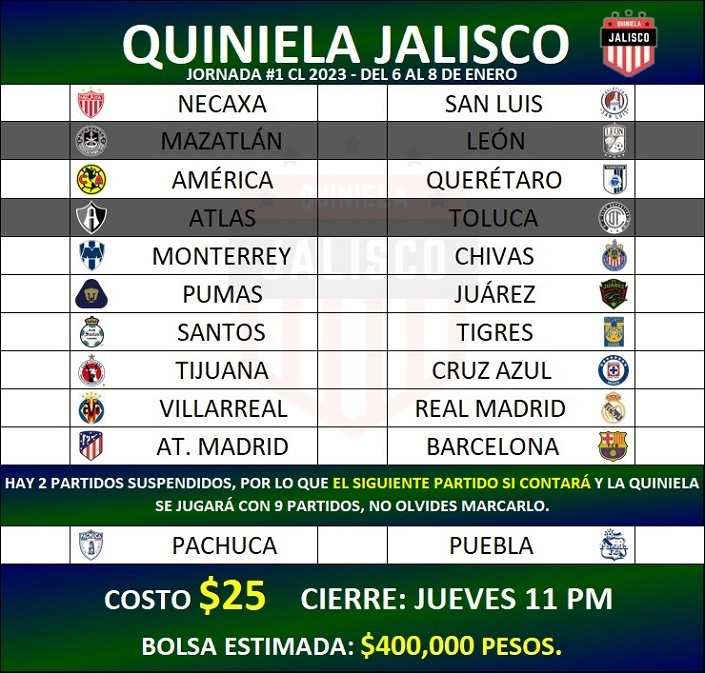
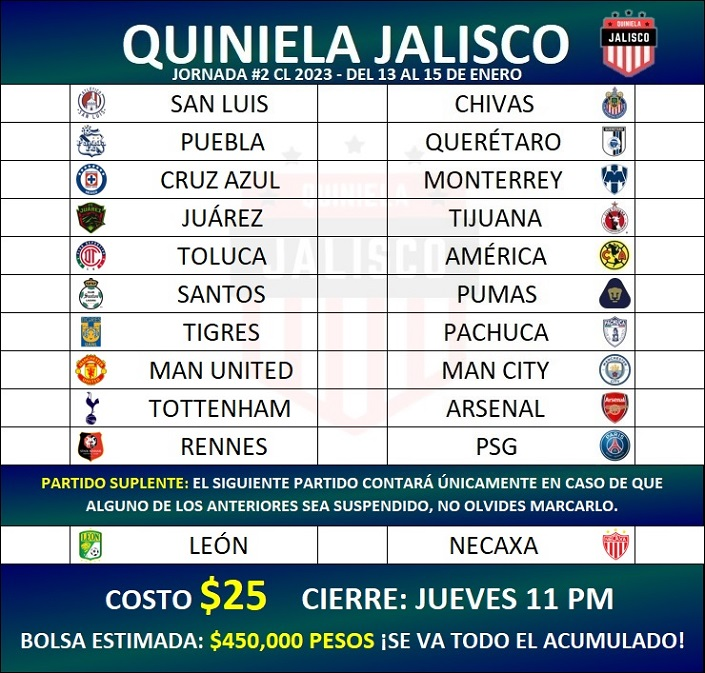
Jornada 2 C23

diff --git a/11/styles11.css b/11/styles11.css
@@ -94,8 +94,8 @@ body{
     margin-top: 9%;
     border-top: solid 1px black;
     border-radius: 0 0 14px 14px;
-    background: -webkit-linear-gradient(0.49turn, rgb(2,98,0) -40% ,rgb(0,6,94) 100%);
-    background: linear-gradient(0.49turn, rgb(2,98,0) -40% ,rgb(0,6,94) 100%);
+    background: -webkit-linear-gradient(0.5turn, rgb(0,77,80) -3% ,rgb(0,6,94) 100%);
+    background: linear-gradient(0.5turn, rgb(0,77,80) -3% ,rgb(0,6,94) 100%);
 }
 
 .text-lg{
@@ -285,24 +285,21 @@ h6{
 }
 
 #bolsatxt:before{
-    content:'Hay 2 partidos suspendidos, por lo \A que ';
+    content:'Bolsa estimada: ';
     white-swhite;
     white-space:pre;
-    font-style: italic;
     text-shadow: 1px 1px 4px black;
 }
 
 #cantidad:before{
-    content:'Pachuca vs Puebla ';
+    content:'$450,000 pesos';
     color: yellow;
-    font-style: italic;
     white-space:pre;
 }
 
 #sub1:before{
-    content:'si contará.';
+    content:'\A ¡Se reparte todo el acumulado!';
     color: white;
-    font-style: italic;
     white-space:pre;
 }
 
@@ -313,14 +310,14 @@ h6{
 }
 
 #sub3:before{
-    content:'\A Bolsa estimada: ';
+    content:'';
     color: white;
     white-space:pre;
     vertical-align: sub;
 }
 
 #sub4:before{
-    content:'$400,000 pesos';
+    content:'';
     color: yellow;
     white-space:pre;
     vertical-align: sub;
@@ -341,7 +338,7 @@ h6{
 #touchIconDiv{
     transform: rotate(315deg);
     position: absolute;
-    top: 205px;
+    top: 170px;
     height: 0px;
     pointer-events:none;
 }

diff --git a/index.html b/index.html
@@ -19,7 +19,7 @@
     <script src="11/main11.js"></script>
     <script src="https://quinielajal.github.io/Registro-1/var.js"></script>
     <script src="var.js"></script>
-    <script src='./snow.js' defer></script>
+    <!--<script src='./snow.js' defer></script>-->
 </head>
 
 <body>
@@ -33,7 +33,7 @@
         </span>
     </p>
     <!-- Quiniela -->
-    <div id="snow"></div>
+    <!--<div id="snow"></div>-->
     <div class="quiniela" id="quiniela">
         <div class="aux"><h3 style="padding: 5px 7px" onclick="clean()"><ion-icon name="close-outline"></ion-icon></h3></div>
         <div class="partido">
@@ -185,9 +185,9 @@
         <table id="lista">
         </table>
     </div>
-<div class="d-flex justify-content-end" style="filter:opacity(0.3);">
+<!--<div class="d-flex justify-content-end" style="filter:opacity(0.3);">
     <ion-icon style="filter:invert(1); margin-top:4px;" name="snow"></ion-icon>
     <div class="form-check form-switch"><input id="snowBtn" class="form-check-input" type="checkbox" checked></div>
-</div>
+</div>-->
 <br>
 </body>
